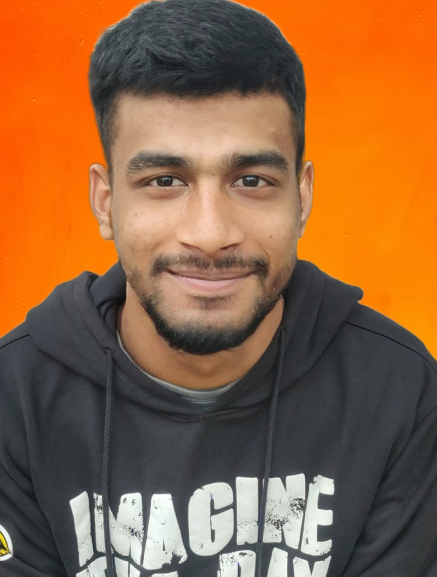
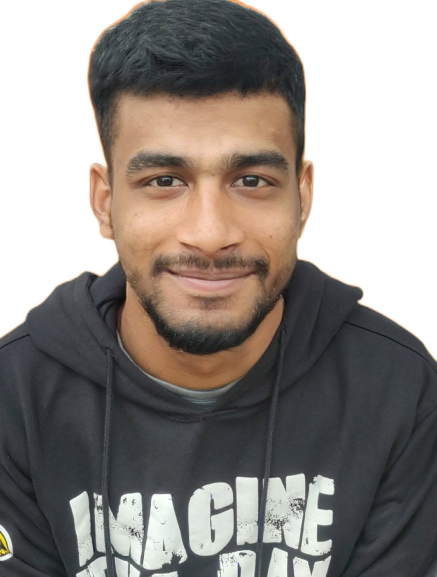
till button

Changed region(s): [[0.5355, 0.0, 1.0, 0.6239], [0.0, 0.0, 0.3272, 0.5927], [0.9817, 0.9983, 1.0, 1.0]]

diff --git a/index.html b/index.html
@@ -11,12 +11,13 @@
     <link rel="stylesheet" href="style.css">
 </head>
 <body>
-    <section>
+    <section class="top-banner">
         <div class="first-half">
             <h1>Welcome To</h1>
             <h1><span class="name-highlight">Asif</span> Website</h1>
             <h3>Web Developer</h3>
             <p>Highly creative computer science student with strong interest in software and application development, looking for an Intern position with ABC. Coming with knowledge of web services and frameworks and several programming languages, including Python, HTML5/CSS, and JavaScript.</p>
+            <a class="ancor-button" target="_blank" href="https://github.com/asif14346">github</a>
         </div>
         <div class="first half">
             <img src="images/p1.png.png" alt="">

diff --git a/style.css b/style.css
@@ -1,4 +1,5 @@
 body{
+    margin: 0%;
     font-family: 'Open Sans', sans-serif;
 }
 h1{
@@ -15,4 +16,18 @@ h1{
 }
 .first-half image{
     width: 100%;
+}
+.top-banner{
+    background-image: url(images/back.png);
+    background-repeat: no-repeat;
+
+}
+.ancor-button{
+    text-decoration: none;
+    color: azure;
+    font-weight: bold;
+    background-image: linear-gradient(45deg,lightgreen,green);
+    padding: 7px 15px;
+    border-radius: 5px;
+
 }
